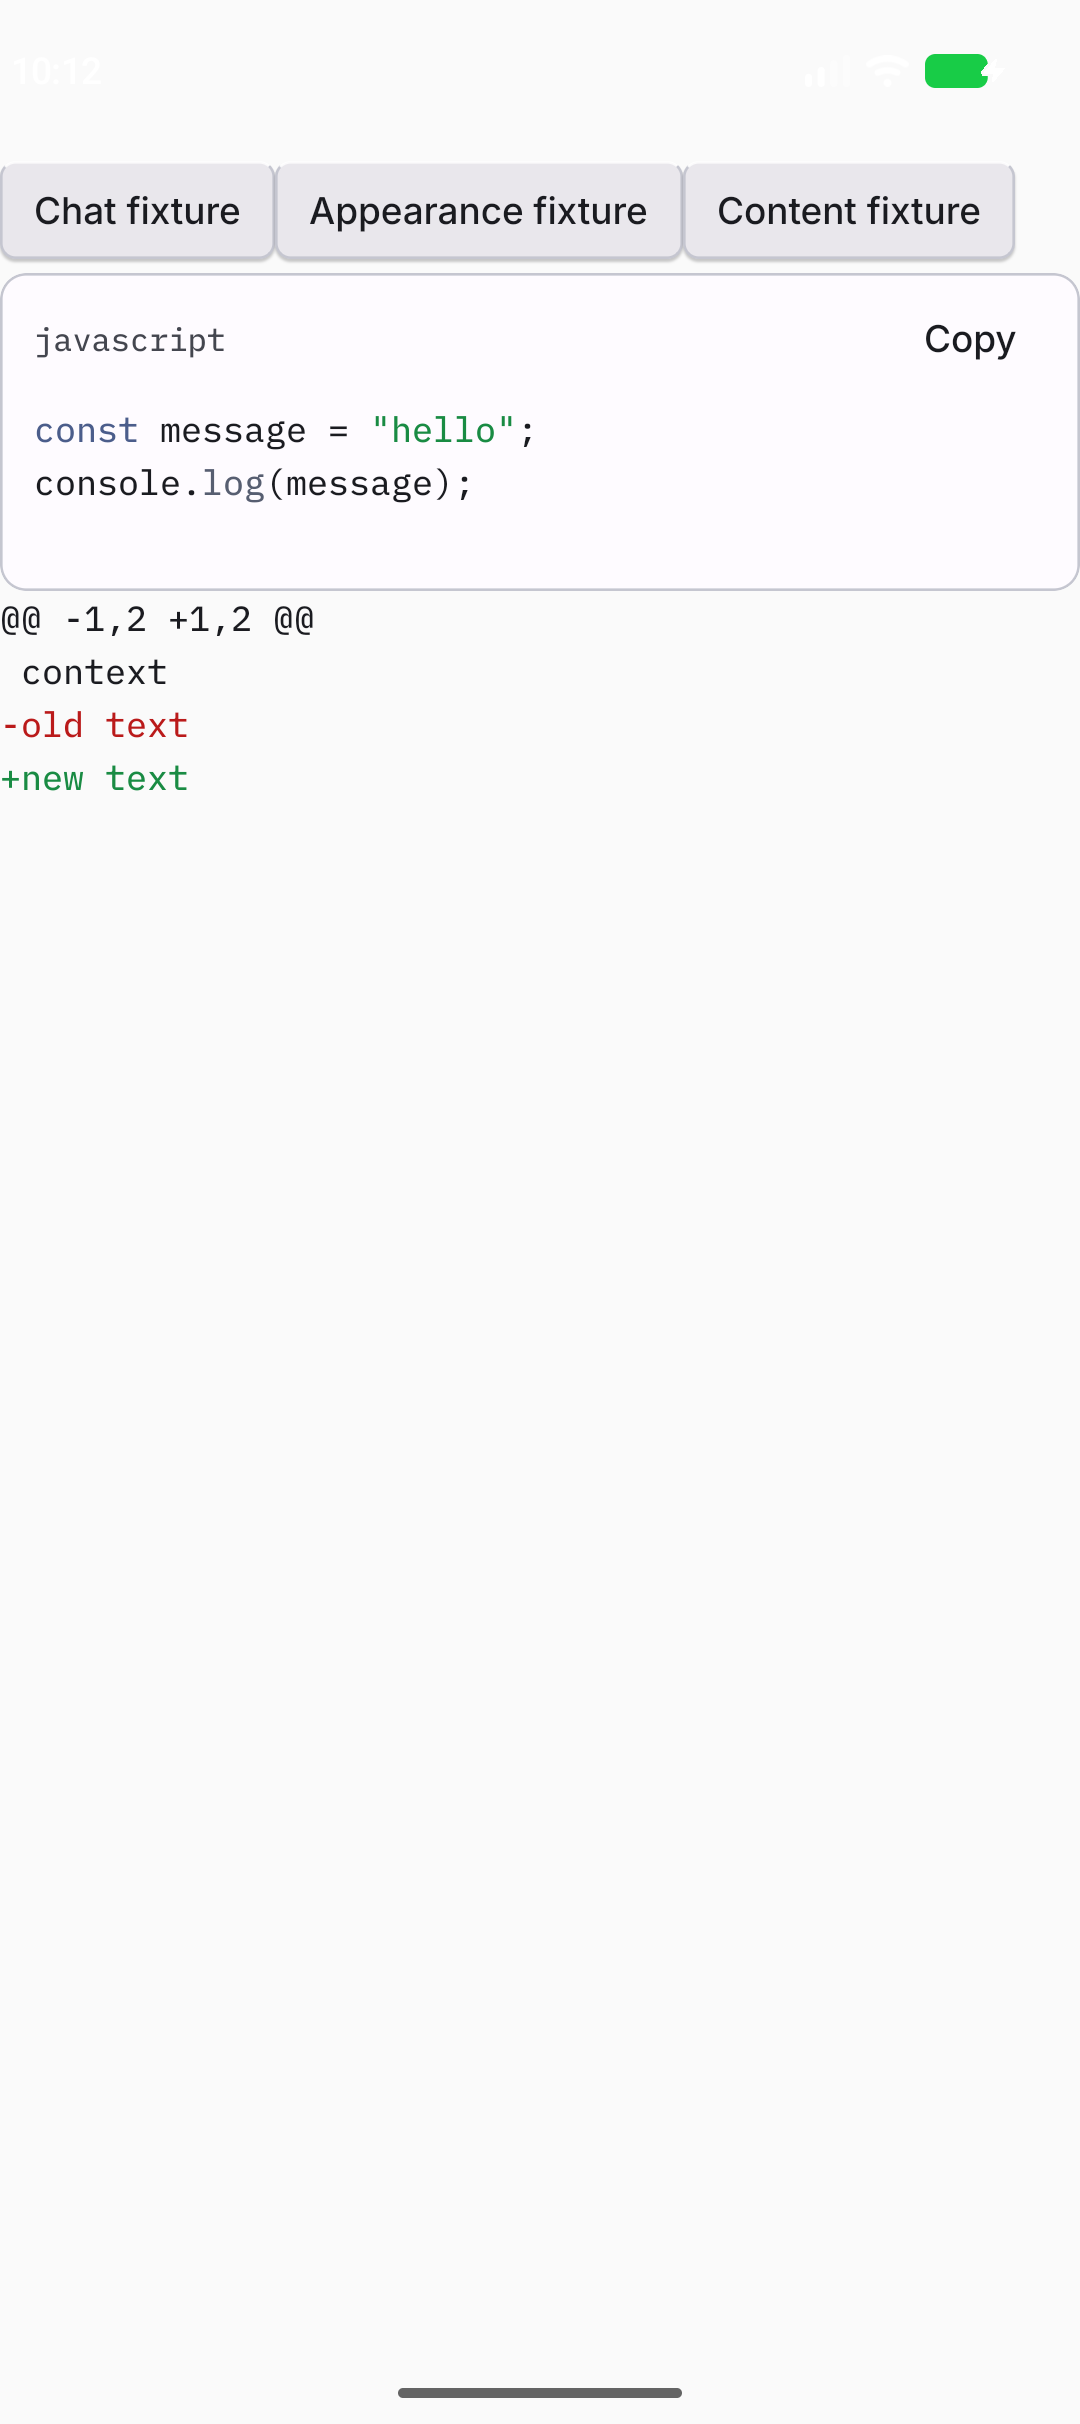
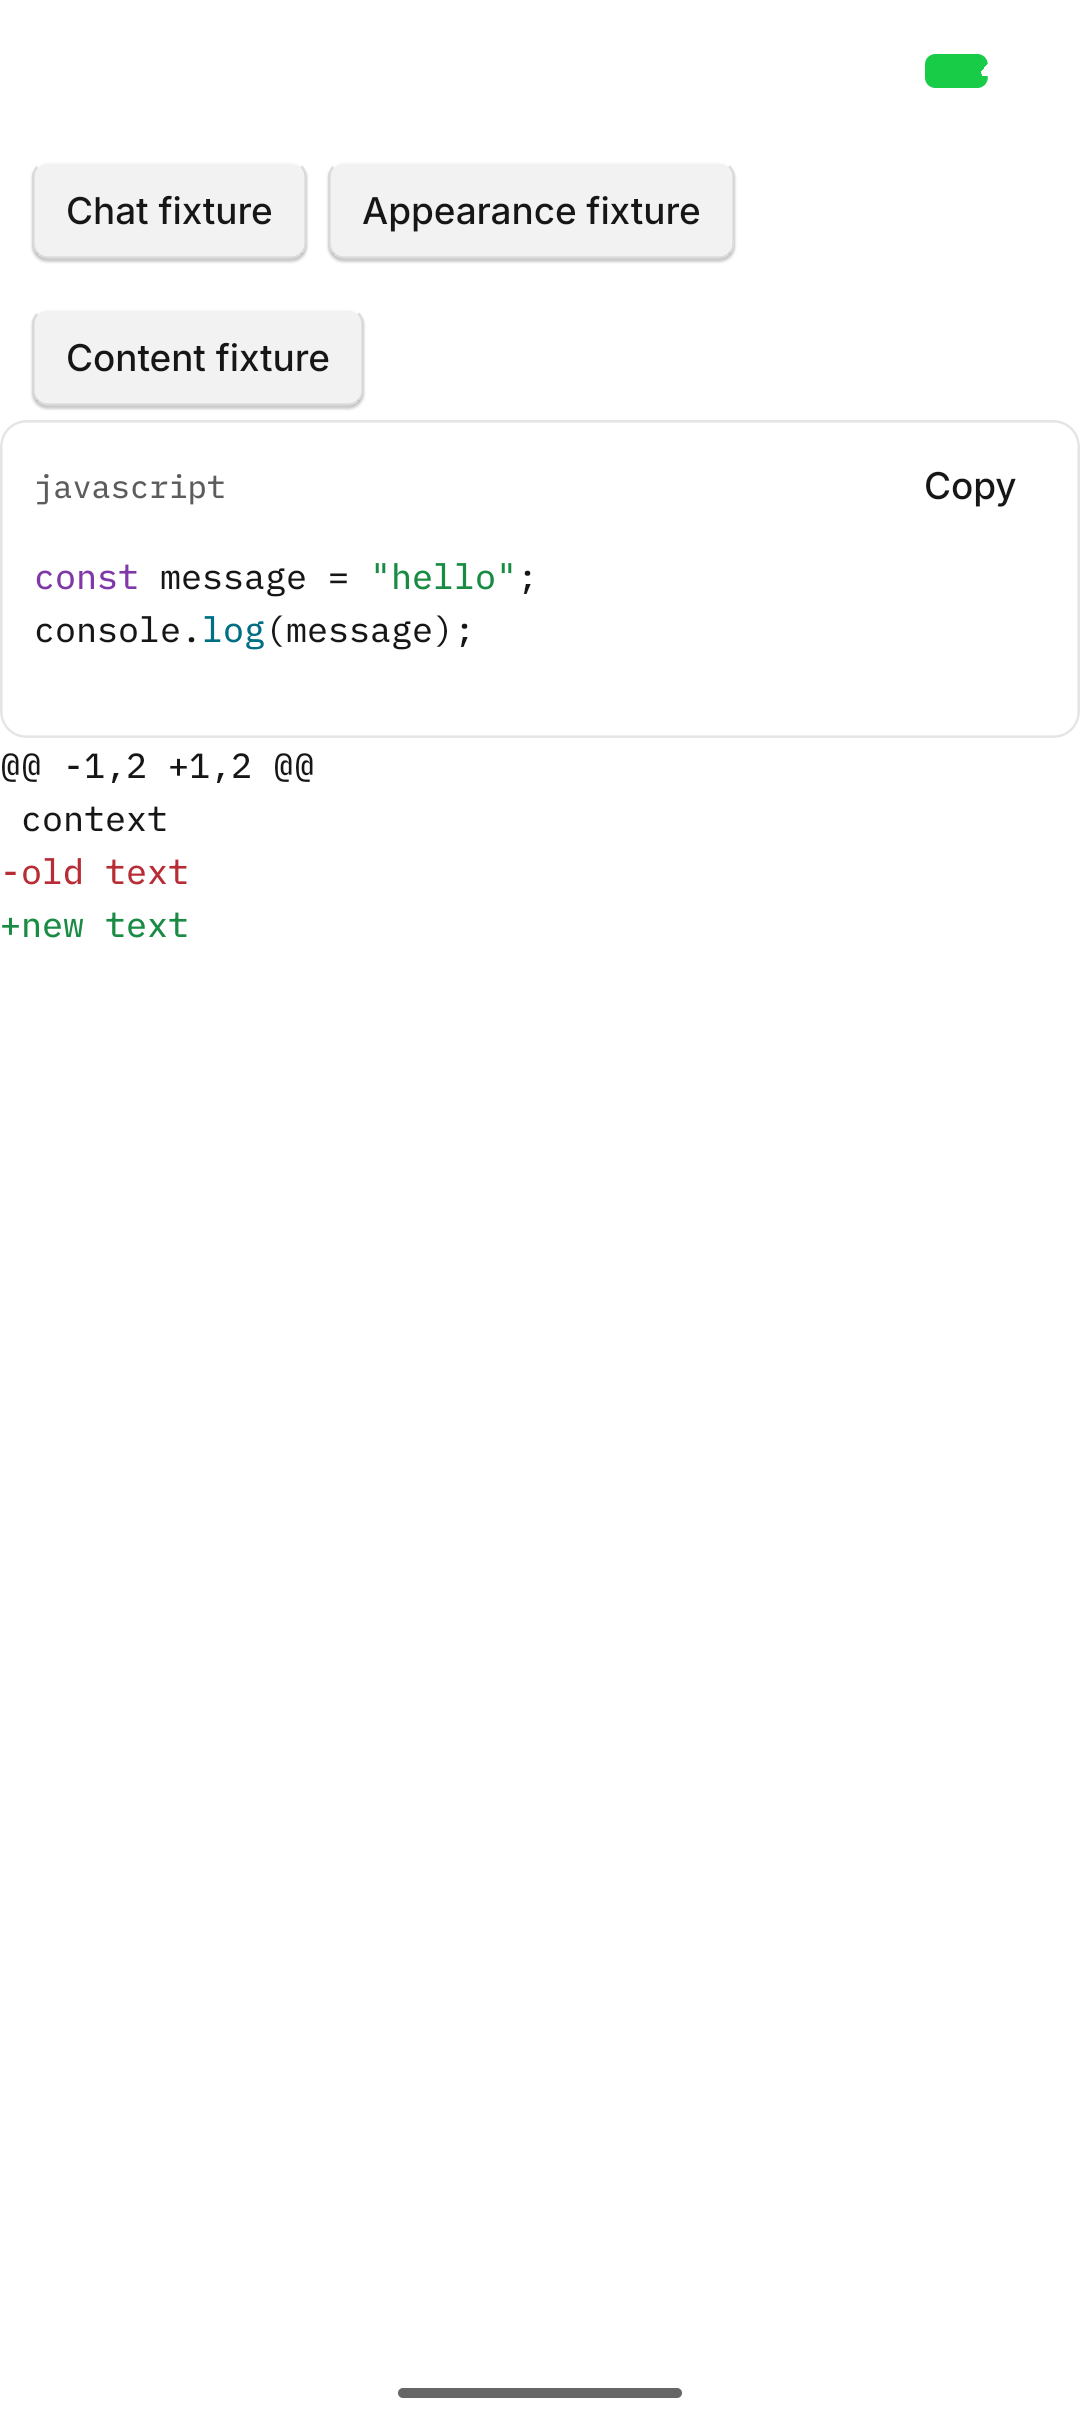
fix(theme): preserve default frames and space fixture controls

diff --git a/src/lib/theme.tsx b/src/lib/theme.tsx
@@ -7,7 +7,7 @@ import upstreamThemes from './upstreamThemes.json';
 
 export type Appearance = 'system' | 'light' | 'dark';
 export type ThemeColors = {
-  bg: string; panel: string; raised: string; border: string; text: string; muted: string; faint: string;
+  frame: string; bg: string; panel: string; raised: string; border: string; text: string; muted: string; faint: string;
   accent: string; accentText: string; primary: string; primaryText: string; selected: string;
   danger: string; dangerBackground: string; dangerBorder: string; blue: string; success: string;
   successBackground: string; focus: string;
@@ -16,7 +16,7 @@ export type ThemeColors = {
 };
 
 export const darkColors: ThemeColors = {
-  bg: '#171717', panel: '#242424', raised: '#333333', border: '#ffffff12', text: '#f0f0f0',
+  frame: '#171717', bg: '#171717', panel: '#242424', raised: '#333333', border: '#ffffff12', text: '#f0f0f0',
   muted: '#aeaeae', faint: '#858585', accent: '#a2bcff', accentText: '#ffffff', primary: '#333333',
   primaryText: '#f0f0f0', selected: '#303030', danger: '#f17471', dangerBackground: '#461516',
   dangerBorder: '#97252b', blue: '#a2bcff', success: '#6bd586', successBackground: '#14361d', focus: '#7698fd',
@@ -25,7 +25,7 @@ export const darkColors: ThemeColors = {
 };
 
 export const lightColors: ThemeColors = {
-  bg: '#fafafa', panel: '#ffffff', raised: '#f2f2f2', border: '#0000001a', text: '#161616',
+  frame: '#fafafa', bg: '#fafafa', panel: '#ffffff', raised: '#f2f2f2', border: '#0000001a', text: '#161616',
   muted: '#5c5c5c', faint: '#808080', accent: '#3b5cf6', accentText: '#ffffff', primary: '#242424',
   primaryText: '#ffffff', selected: '#eeeeee', danger: '#b82d35', dangerBackground: '#fceceb',
   dangerBorder: '#f2bbb7', blue: '#3b5cf6', success: '#198b43', successBackground: '#e7f9ea', focus: '#7698fd',
@@ -98,7 +98,7 @@ export function ThemeProvider({ children }: { children: React.ReactNode }) {
   return <Context.Provider value={theme}>{children}</Context.Provider>;
 }
 
-const betaDarkColors: ThemeColors = { ...darkColors, bg: '#161616', text: '#fafafa', border: '#ffffff1a' };
+const betaDarkColors: ThemeColors = { ...darkColors, frame: '#080808', bg: '#161616', text: '#fafafa', border: '#ffffff1a' };
 const betaLightColors: ThemeColors = { ...lightColors, bg: '#ffffff', panel: '#fafafa', input: '#fafafa', selected: '#f2f2f2' };
 
 export function useTheme() { return useContext(Context); }
@@ -111,7 +111,7 @@ export function useThemedStyles<T>(factory: (colors: ThemeColors) => T): T {
 function mapPreset(t: Record<string, string>, fallback: ThemeColors): ThemeColors {
   const color = (key: string, otherwise: string) => t[key]?.startsWith('#') ? t[key] : otherwise;
   return { ...fallback,
-    bg: color('background-base', fallback.bg), panel: color('surface-base', fallback.panel), raised: color('surface-raised-stronger-non-alpha', fallback.raised), border: color('border-base', fallback.border),
+    frame: color('background-base', fallback.bg), bg: color('background-base', fallback.bg), panel: color('surface-base', fallback.panel), raised: color('surface-raised-stronger-non-alpha', fallback.raised), border: color('border-base', fallback.border),
     text: color('text-base', fallback.text), muted: color('text-weak', fallback.muted), faint: color('text-weaker', fallback.faint),
     accent: color('text-interactive-base', fallback.accent), accentText: color('text-on-interactive-base', fallback.accentText), primary: color('button-primary-base', fallback.primary), primaryText: color('background-base', fallback.primaryText), selected: color('surface-interactive-weak', fallback.selected),
     danger: color('text-diff-delete-base', fallback.danger), dangerBackground: color('surface-critical-weak', fallback.dangerBackground), dangerBorder: color('border-critical-base', fallback.dangerBorder), blue: color('text-interactive-base', fallback.blue), success: color('text-diff-add-base', fallback.success), successBackground: color('surface-success-weak', fallback.successBackground), focus: color('border-focus', fallback.focus), input: color('input-base', fallback.input),
@@ -120,5 +120,5 @@ function mapPreset(t: Record<string, string>, fallback: ThemeColors): ThemeColor
 }
 
 function dynamicColors(t: Material3Scheme, fallback: ThemeColors): ThemeColors {
-  return { ...fallback, bg: t.background, panel: t.surface, raised: t.surfaceContainerHigh, border: t.outlineVariant, text: t.onBackground, muted: t.onSurfaceVariant, faint: t.outline, accent: t.primary, accentText: t.onPrimary, blue: t.primary, focus: t.primary, primary: t.primary, primaryText: t.onPrimary, selected: t.secondaryContainer, input: t.surfaceContainer, danger: t.error, dangerBackground: t.errorContainer, dangerBorder: t.error, syntaxKeyword: t.primary, syntaxProperty: t.secondary, syntaxConstant: t.tertiary };
+  return { ...fallback, frame: t.background, bg: t.background, panel: t.surface, raised: t.surfaceContainerHigh, border: t.outlineVariant, text: t.onBackground, muted: t.onSurfaceVariant, faint: t.outline, accent: t.primary, accentText: t.onPrimary, blue: t.primary, focus: t.primary, primary: t.primary, primaryText: t.onPrimary, selected: t.secondaryContainer, input: t.surfaceContainer, danger: t.error, dangerBackground: t.errorContainer, dangerBorder: t.error, syntaxKeyword: t.primary, syntaxProperty: t.secondary, syntaxConstant: t.tertiary };
 }

diff --git a/tests/fixtures/theming-native.tsx b/tests/fixtures/theming-native.tsx
@@ -20,7 +20,7 @@ const backend:any={subscribe: async function* ({signal}: {signal?: AbortSignal})
 function Content(){
  const {colors}=useTheme();
  const [screen,setScreen]=useState<'chat'|'appearance'|'content'>('chat');
- return <View style={{flex:1, paddingTop: 56, backgroundColor: colors.bg}}><View style={{flexDirection:'row'}}><Button title='Chat fixture' onPress={()=>setScreen('chat')}/><Button title='Appearance fixture' onPress={()=>setScreen('appearance')}/><Button title='Content fixture' onPress={()=>setScreen('content')}/></View>{screen==='chat'?<ChatScreen backend={backend} sessionID={session.id} serverID="visual-42" betaLayout={true} onSessionChanged={noop} onOpenSession={noop}/>:screen==='appearance'?<AppearanceSettings/>:<ScrollView><Markdown text={'```javascript\nconst message = "hello";\nconsole.log(message);\n```'}/><Patch patch={'@@ -1,2 +1,2 @@\n context\n-old text\n+new text\n'}/></ScrollView>}</View>;
+ return <View style={{flex:1, paddingTop: 56, backgroundColor: colors.bg}}><View style={{flexDirection:'row', flexWrap:'wrap', gap:8, paddingHorizontal:12}}><Button title='Chat fixture' onPress={()=>setScreen('chat')}/><Button title='Appearance fixture' onPress={()=>setScreen('appearance')}/><Button title='Content fixture' onPress={()=>setScreen('content')}/></View>{screen==='chat'?<ChatScreen backend={backend} sessionID={session.id} serverID="visual-42" betaLayout={true} onSessionChanged={noop} onOpenSession={noop}/>:screen==='appearance'?<AppearanceSettings/>:<ScrollView><Markdown text={'```javascript\nconst message = "hello";\nconsole.log(message);\n```'}/><Patch patch={'@@ -1,2 +1,2 @@\n context\n-old text\n+new text\n'}/></ScrollView>}</View>;
 }
 function Demo(){
  const [ready]=useFonts({Inter:require('../../assets/fonts/Inter.ttf'),IBMPlexMono:require('../../assets/fonts/IBMPlexMono-Text.ttf')});

diff --git a/App.tsx b/App.tsx
@@ -44,14 +44,13 @@ export default function App() {
 
 function ThemedStatusBar() {
   const { scheme, colors } = useTheme();
-  const betaLayout = useBetaLayout();
-  const background = colors.bg;
+  const background = colors.frame;
   useEffect(() => { if (Platform.OS !== 'web') void SystemUI.setBackgroundColorAsync(background); }, [background]);
   return <StatusBar style={scheme === 'dark' ? 'light' : 'dark'} />;
 }
 
 function MobileApp() {
-  const { colors, scheme } = useTheme();
+  const { colors } = useTheme();
   const betaLayout = useBetaLayout();
   const styles = useThemedStyles(createStyles);
   const { width } = useWindowDimensions();
@@ -666,7 +665,7 @@ function MobileApp() {
 
   if (booting) return <SafeAreaView style={styles.safe}><View style={styles.boot}><OpenCodeLogo width={160} /><Busy /><Label muted>Restoring your workspace</Label></View></SafeAreaView>;
 
-  return <SafeAreaView style={styles.safe} edges={['top', 'left', 'right', 'bottom']}>
+  return <SafeAreaView style={[styles.safe, betaLayout && tab !== 'settings' && { backgroundColor: colors.frame }]} edges={['top', 'left', 'right', 'bottom']}>
     {active?.backend === 'pi' ? <PiWorkspace key={`${active.id}:${connectionRevision}`} connection={active} foreground={foreground && !connecting} onManageServers={openServers} onConnectionLost={onPiConnectionLost} /> : !client || !active ? <KeyboardAvoidingView style={{ flex: 1 }} behavior="padding" automaticOffset><ScrollView keyboardShouldPersistTaps="handled" contentContainerStyle={[styles.onboarding, betaLayout && styles.betaOnboarding]}>
       {!betaLayout && <View style={{ gap: 16, marginBottom: 20 }}><OpenCodeLogo width={180} /><Label muted>Mobile client</Label></View>}
       {serverForm}

diff --git a/src/screens/WorkspaceScreen.tsx b/src/screens/WorkspaceScreen.tsx
@@ -401,5 +401,4 @@ function createStyles(colors: ThemeColors) { return StyleSheet.create({
   fileIcon: { fontFamily: mono, fontSize: 23, color: colors.muted },
   editor: { flex: 1, minHeight: 0, padding: 16, gap: 12 },
   mediaPreview: { flex: 1, minHeight: 0, alignItems: 'center', justifyContent: 'center', gap: 12 },
-  code: { color: colors.text, fontFamily: mono, fontSize: 13, lineHeight: 20 },
 }); }

diff --git a/docs/theming.md b/docs/theming.md
@@ -32,16 +32,21 @@ The renderer also accepts common aliases for these languages. Unknown and absent
 
 ## Verification
 
-The Android captures use production components with sample model data. They do not show a connected server.
+The Android fixture captures use production components with sample model data. They do not show a connected server.
+The app frame captures show the actual app before a server connection.
 The native shell includes the Material 3 module from a fresh debug build.
 The fixture uses an embedded JavaScript bundle to avoid the local Metro transport issue.
 
 The emulator used 420 dpi. The variant options retained 48 dp touch targets with gaps near 4 dp.
 The large-text capture uses a 1.5 font scale and a 1080 × 1600 viewport.
+The fixture navigation controls use 8 dp gaps and wrap when space is limited.
+The actual app retained frame colors `#080808` in dark mode and `#fafafa` in light mode.
 The Material You background matched Android's system palette value, `#1a1b20`.
 
 | Capture | Evidence |
 | --- | --- |
+| [Default light app frame](screenshots/issue-42/app-frame-light.png) | Actual app with its original light frame color |
+| [Default dark app frame](screenshots/issue-42/app-frame-dark.png) | Actual app with its original dark frame color |
 | [Original variant sheet](screenshots/issue-42/variant-sheet.png) | Earlier baseline with 12 dp gaps |
 | [Revised variant sheet](screenshots/issue-42/variant-after.png) | Selected option and reduced gaps |
 | [Large text](screenshots/issue-42/variant-large-short.png) | Selected option on a shorter screen |
@@ -56,4 +61,4 @@ The browser checks cover code text, copy output, selection, and visible syntax c
 They also cover diff text and visible addition and deletion colors.
 The web export and typecheck passed.
 The existing unit suite retained its baseline result: 31 passes and four unrelated failures.
-Native iOS behavior was not verified on this Linux host.
+I did not verify native iOS behavior on this Linux host.
